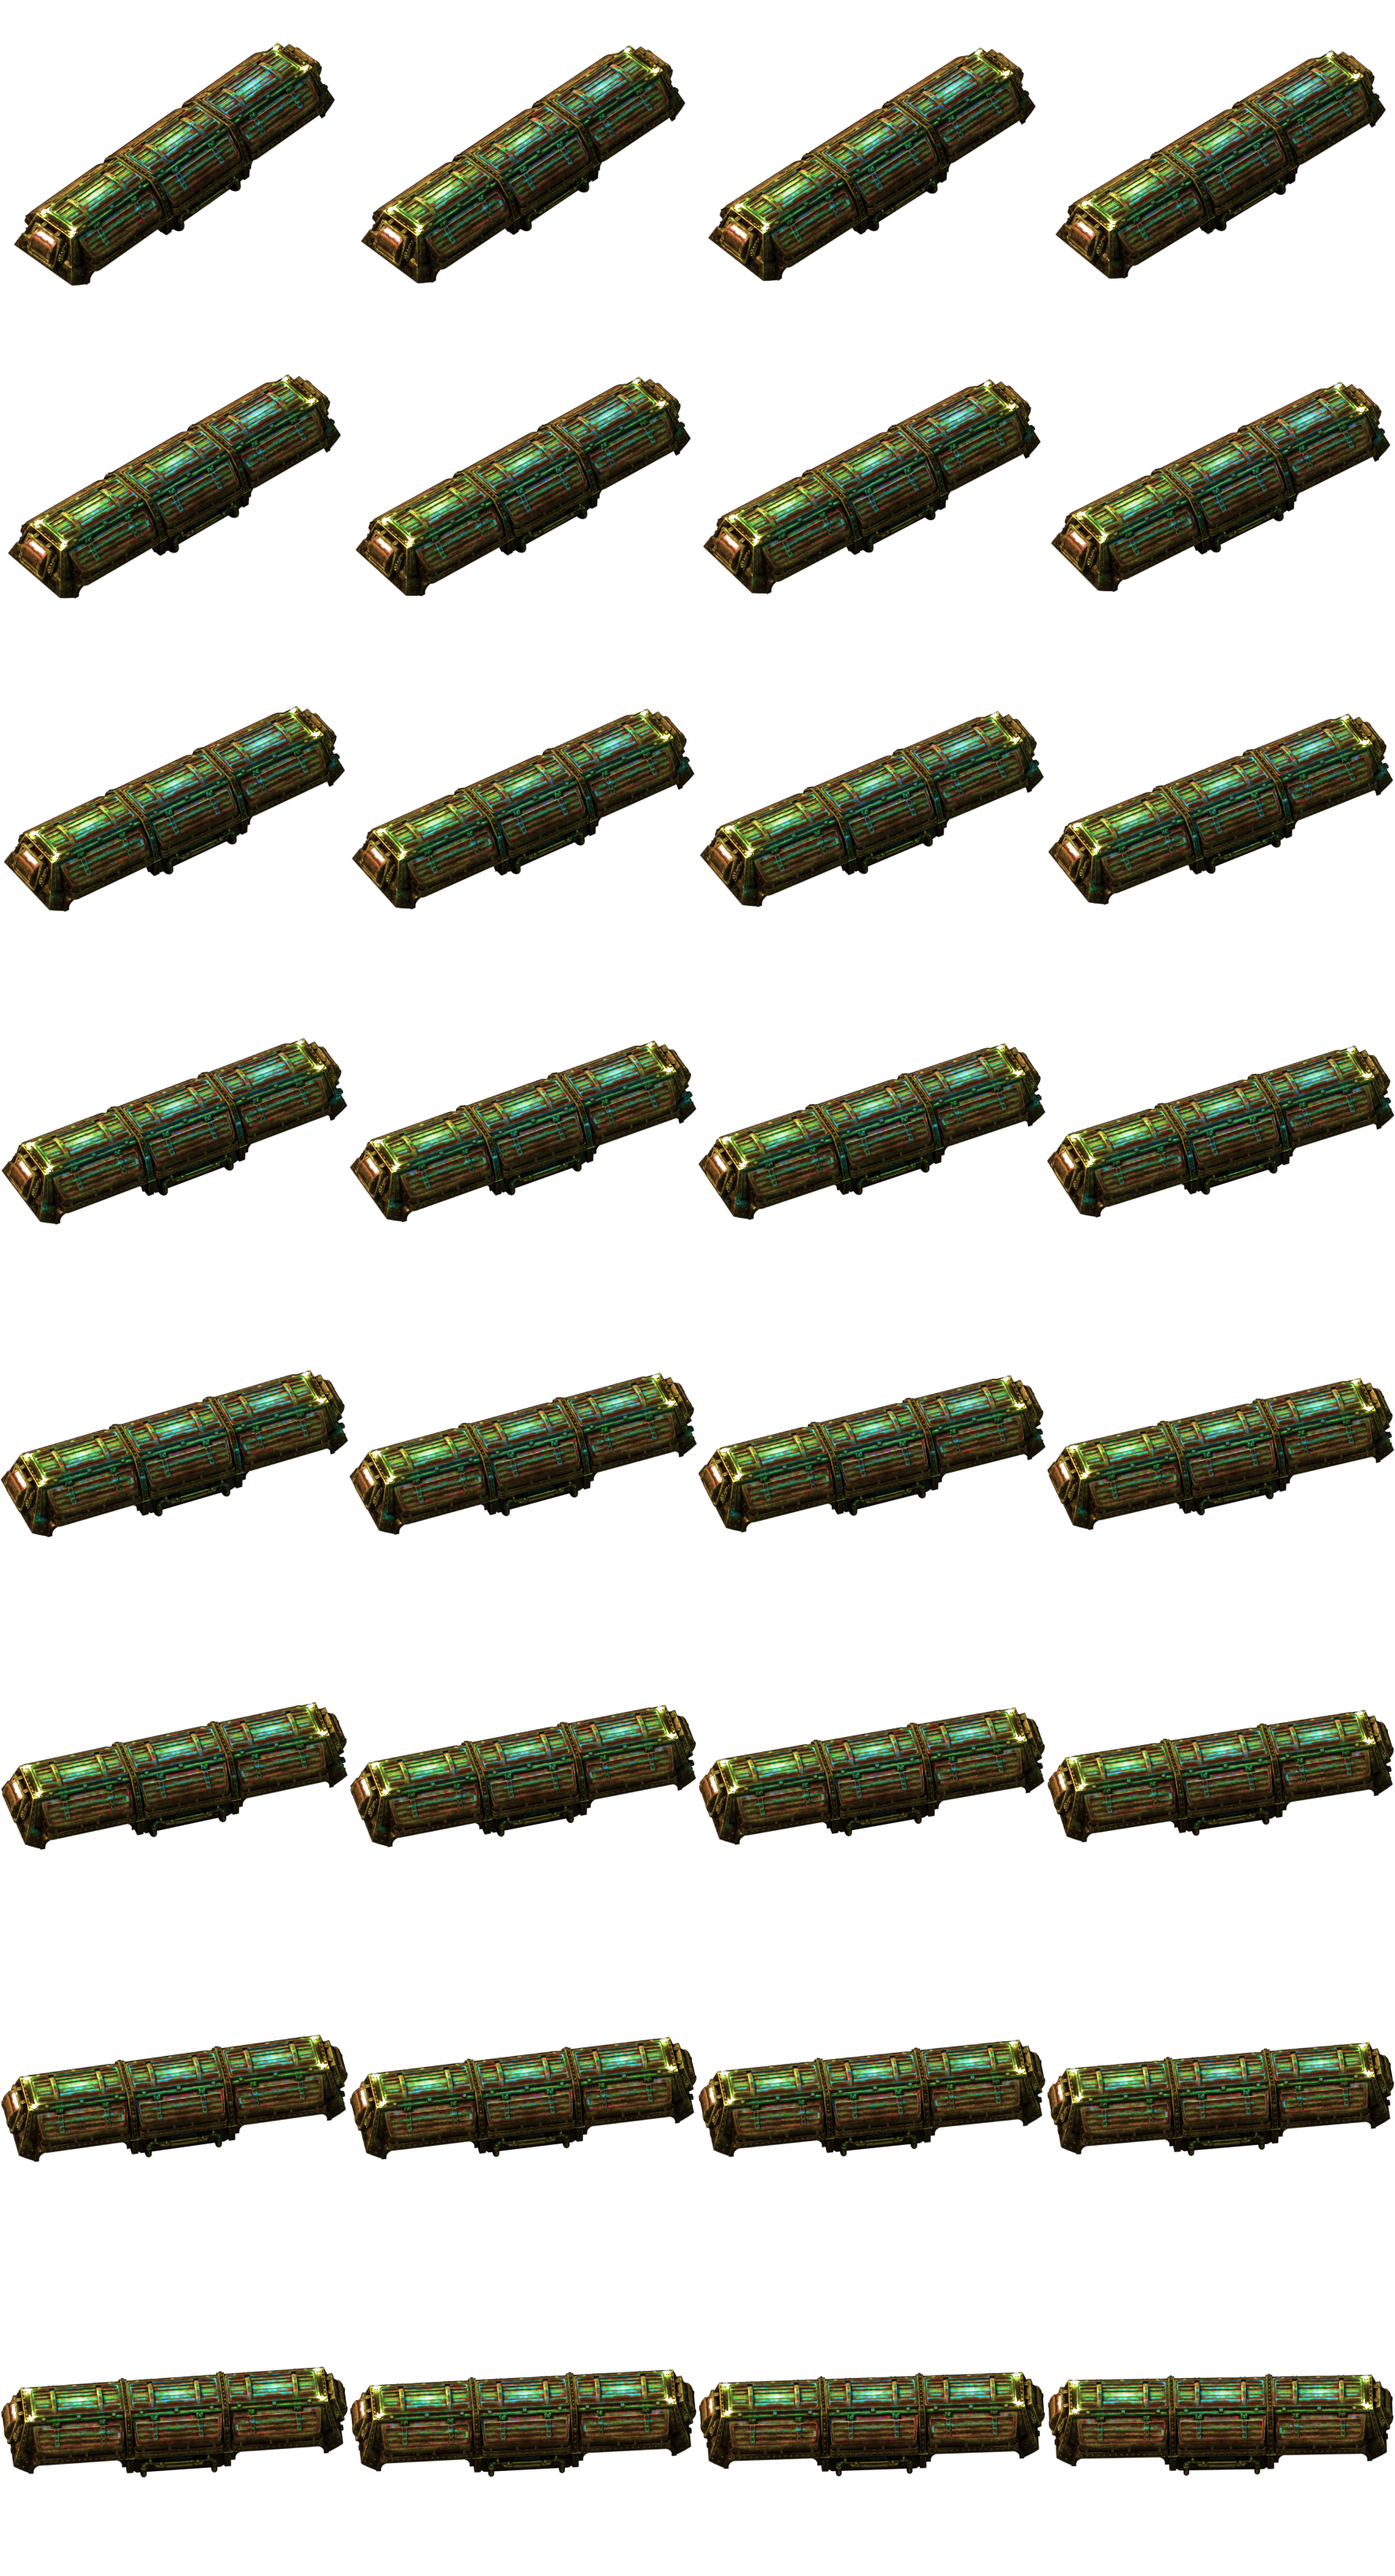
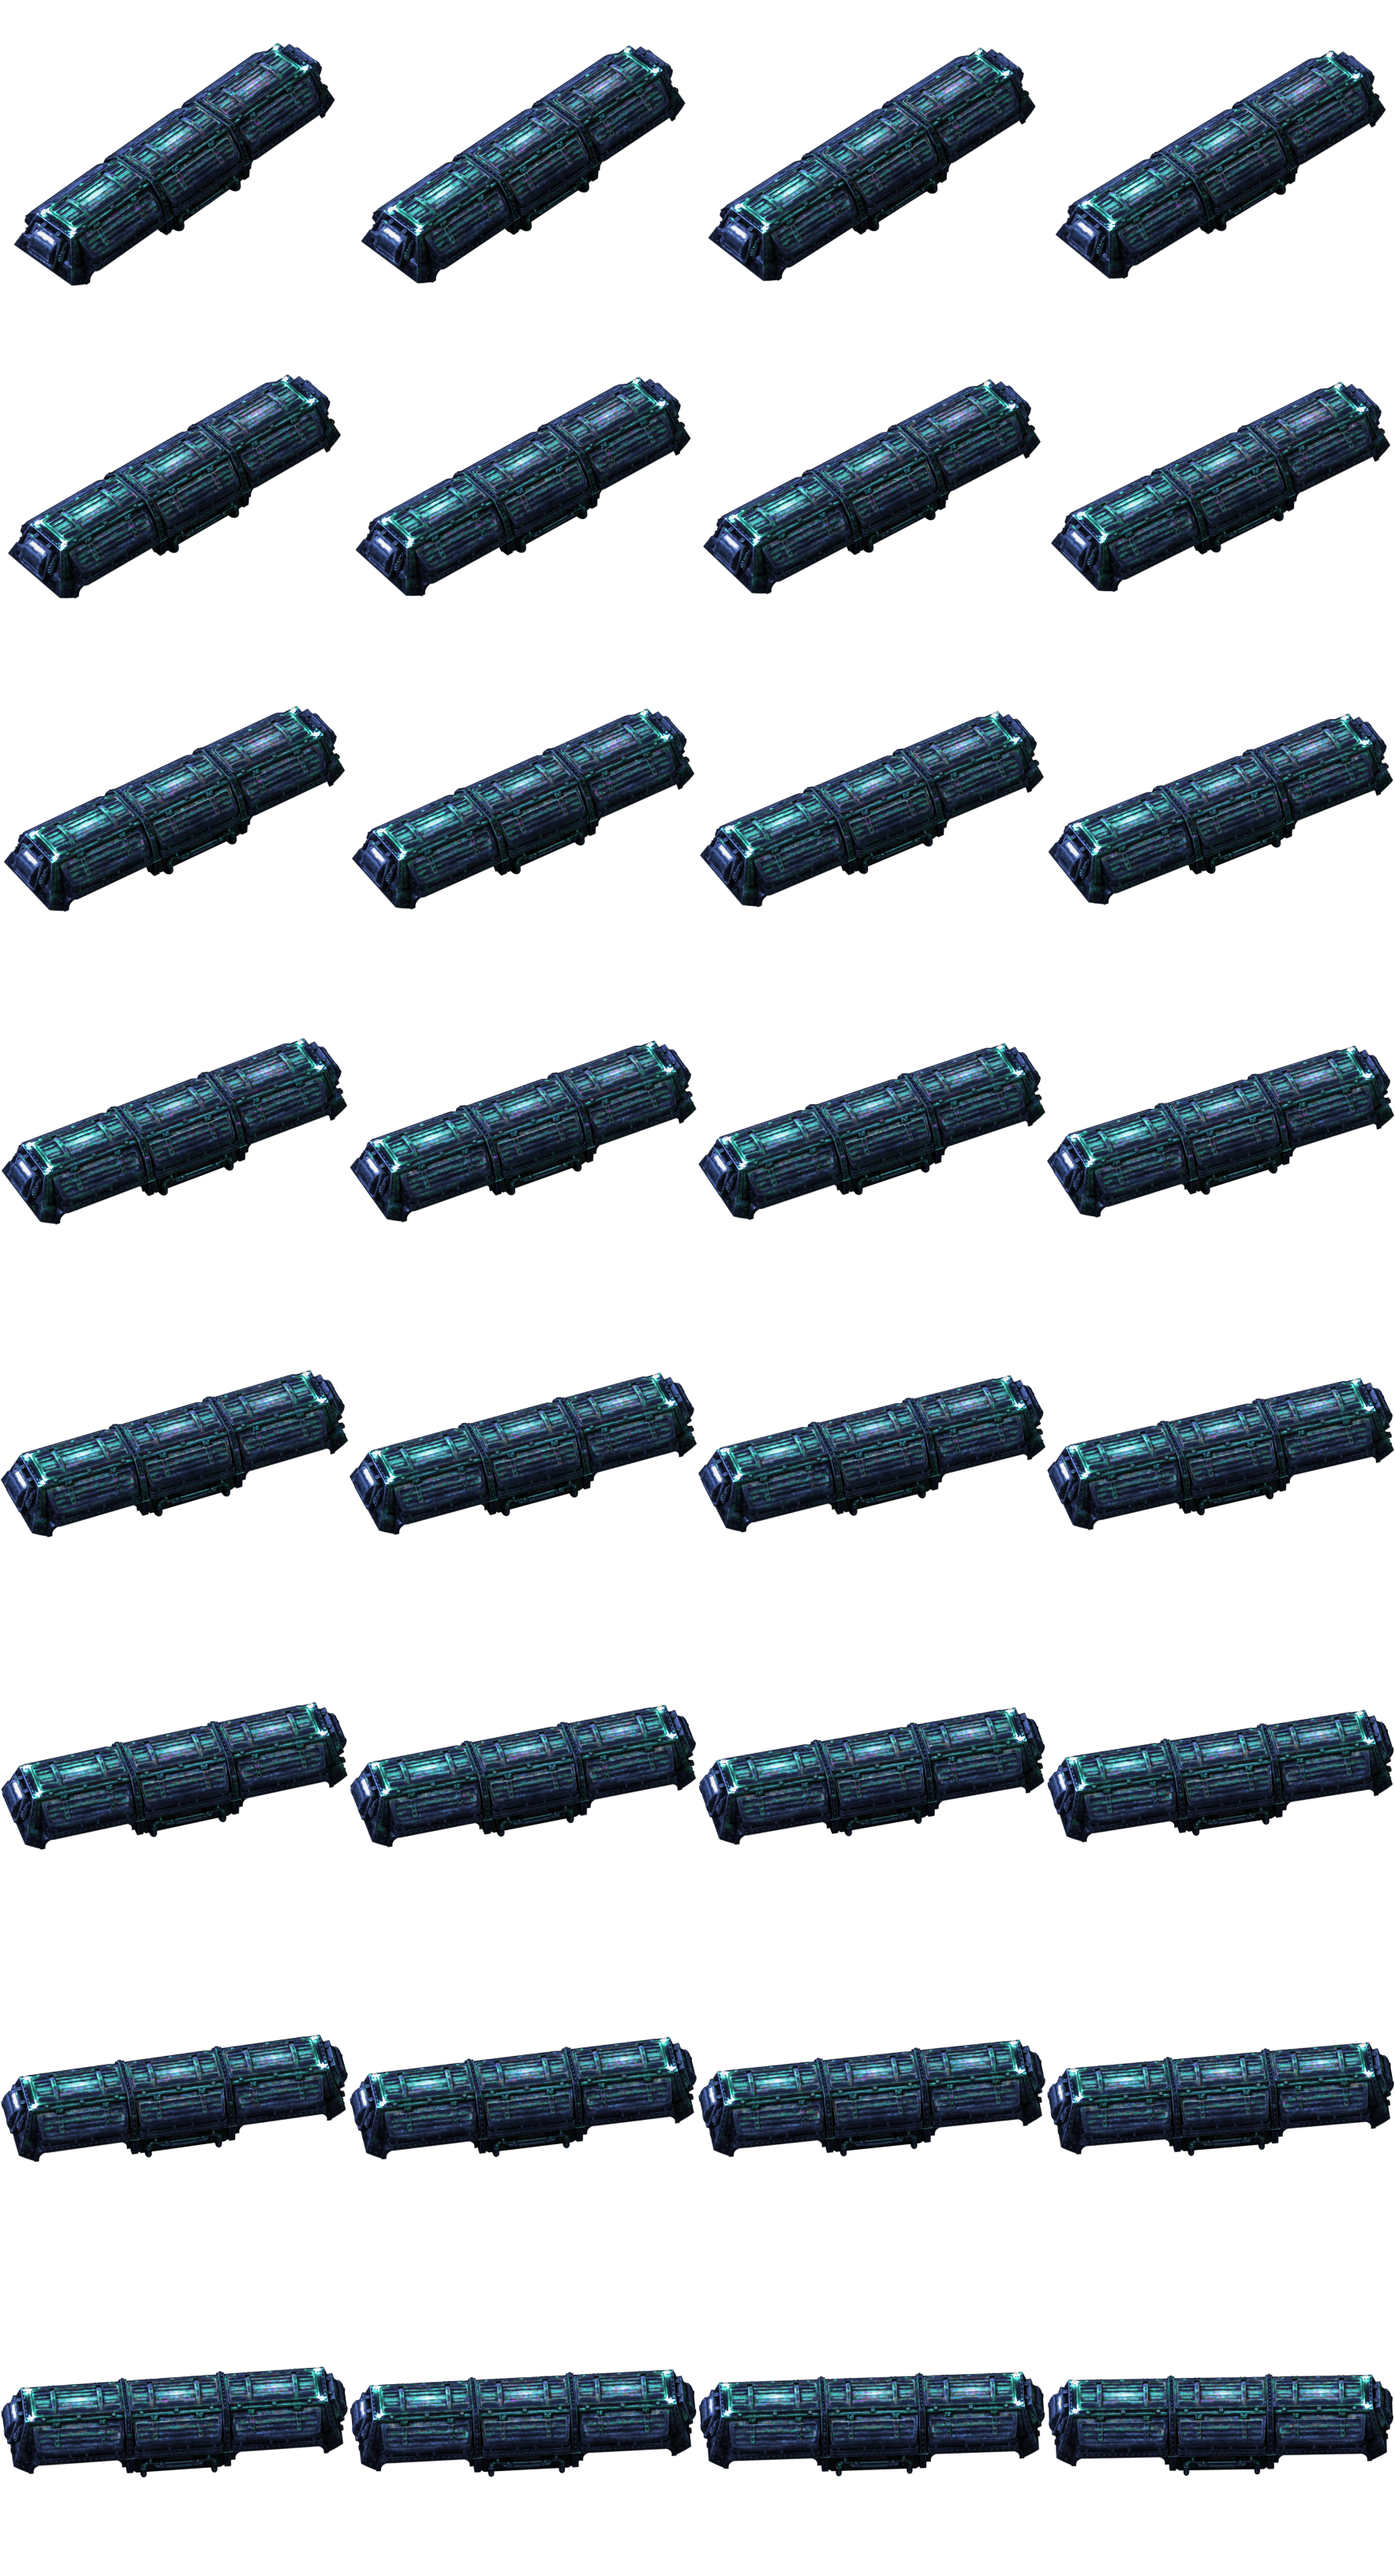
Swap Mk1 and Mk2 colours

diff --git a/README.md b/README.md
@@ -53,7 +53,7 @@ Graphics and code derived from the Factorio base game are © Wube Software and u
 Rebalance for Factorio 2.0 and Space Age. The speed train is now split into two tiers, and recipes and technologies use 2.0 materials. Without Space Age, Mk2 and the train fuel fall back to vanilla materials and utility science.
 
 **Added:**
-- Speed train Mk2 and speed cargo wagon Mk2 with their own blue look, unlocked by a new technology (Space Age: electromagnetic and metallurgic science)
+- Speed train Mk2 and speed cargo wagon Mk2 in the original gold look, unlocked by a new technology (Space Age: electromagnetic and metallurgic science)
 - Migration: speed trains and speed cargo wagons in existing saves (placed and as items) become Mk2, so they keep their old stats and no wagon cargo is lost
 - Speed train and speed cargo wagon can only be placed on planets with gravity when Space Age is enabled, like the vanilla rolling stock
 - InformaTron pages (optional): overview, rolling stock and fuel stats compared with vanilla, and what each technology needs and unlocks
@@ -66,7 +66,7 @@ Rebalance for Factorio 2.0 and Space Age. The speed train is now split into two 
 - Train fuel: made from nuclear fuel and low density structures (Space Age: plus a supercapacitor) instead of rocket fuel and sulfur, energy 0.86GJ -> 1.21GJ, acceleration 0.9 -> 1.0, top speed 1.5 -> 1.35, stack size 5 -> 1
 - Train fuel technology now requires Kovarex enrichment process (Space Age: and electromagnetic science) and chemical science
 - Rewrote all item and technology descriptions and technology names (English and German)
-- Speed train and speed cargo wagon now use high-resolution graphics
+- Speed train and speed cargo wagon now use high-resolution graphics and are blue (the gold look moved to Mk2)
 
 **Fixed:**
 - Train fuel produced 4x more energy than its ingredients
